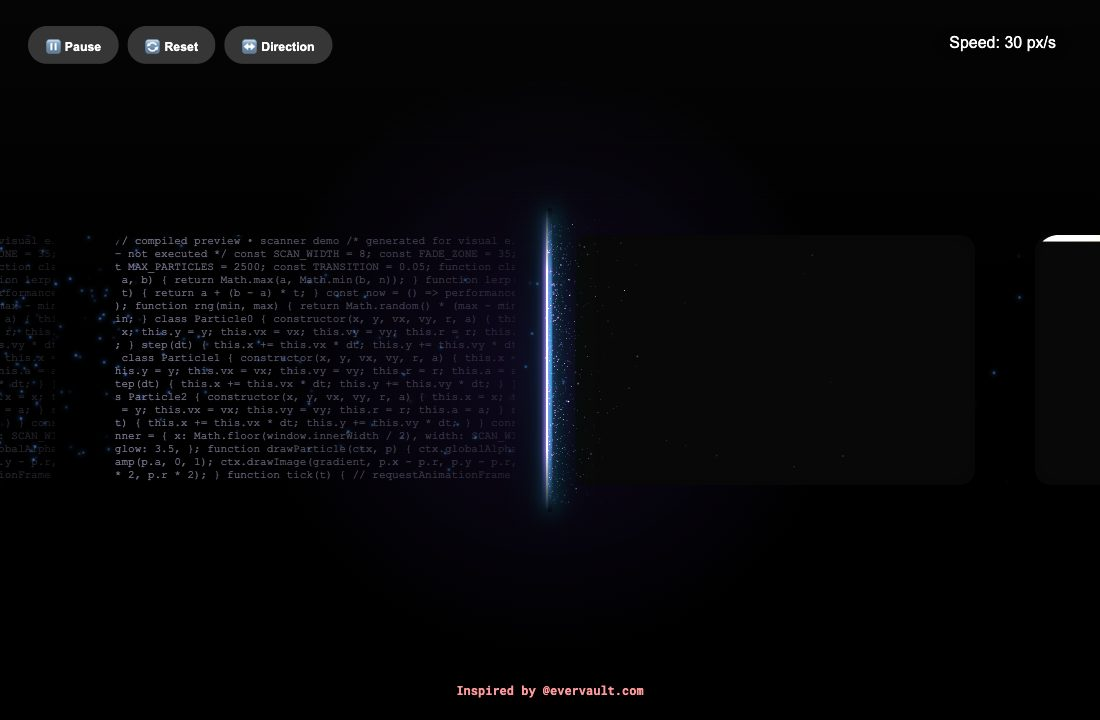
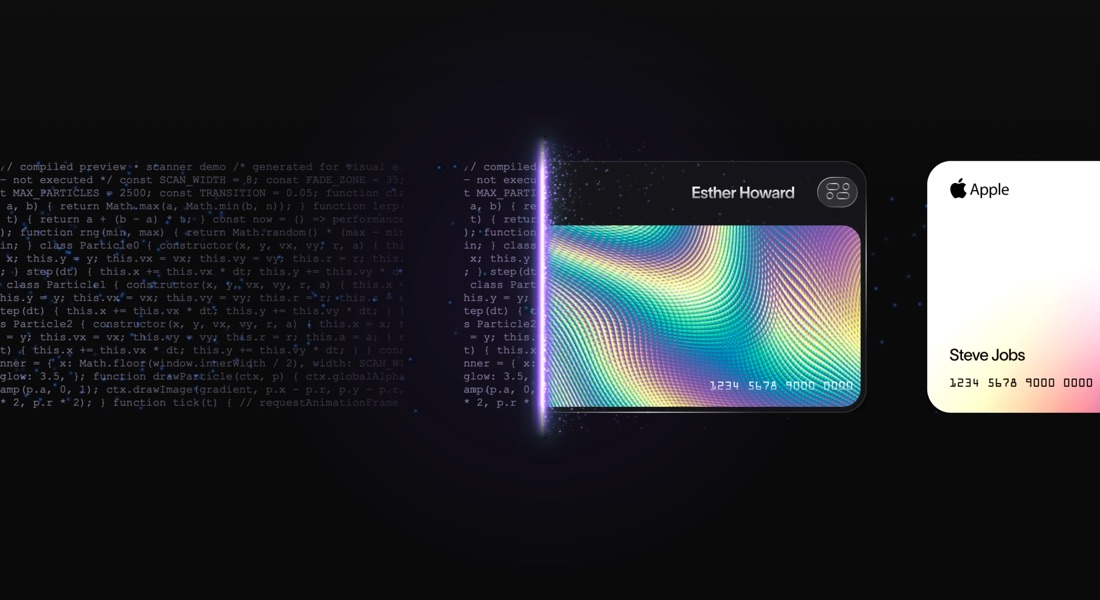
asset(card-beam): 换新预览图（karo 截图，1100x600 / 110KB）+ POSTER_VERSION 6

diff --git a/index.html b/index.html
@@ -5,7 +5,7 @@
 <meta name="viewport" content="width=device-width, initial-scale=1" />
 <title>Design DNA — endless designs, just scroll</title>
 <!-- POSTER 缓存版本：每次替换 posters/*.jpg 时手动 +1，让浏览器立刻拉新图。 -->
-<script>window.POSTER_VERSION = '5';</script>
+<script>window.POSTER_VERSION = '6';</script>
 <!-- 大尺寸 stub 预览图 preload：让浏览器在主线程层就开始拉，等 iframe srcdoc 挂载时直接命中 HTTP cache，避免首次进卡 1-2s 白屏 -->
 <link rel="preload" as="image" href="cinematic-3d-scroll-preview.jpg?v=202605171322" fetchpriority="high">
 <link rel="preload" as="image" href="webgl-magazine-preview.jpg?v=202605161457" fetchpriority="high">
